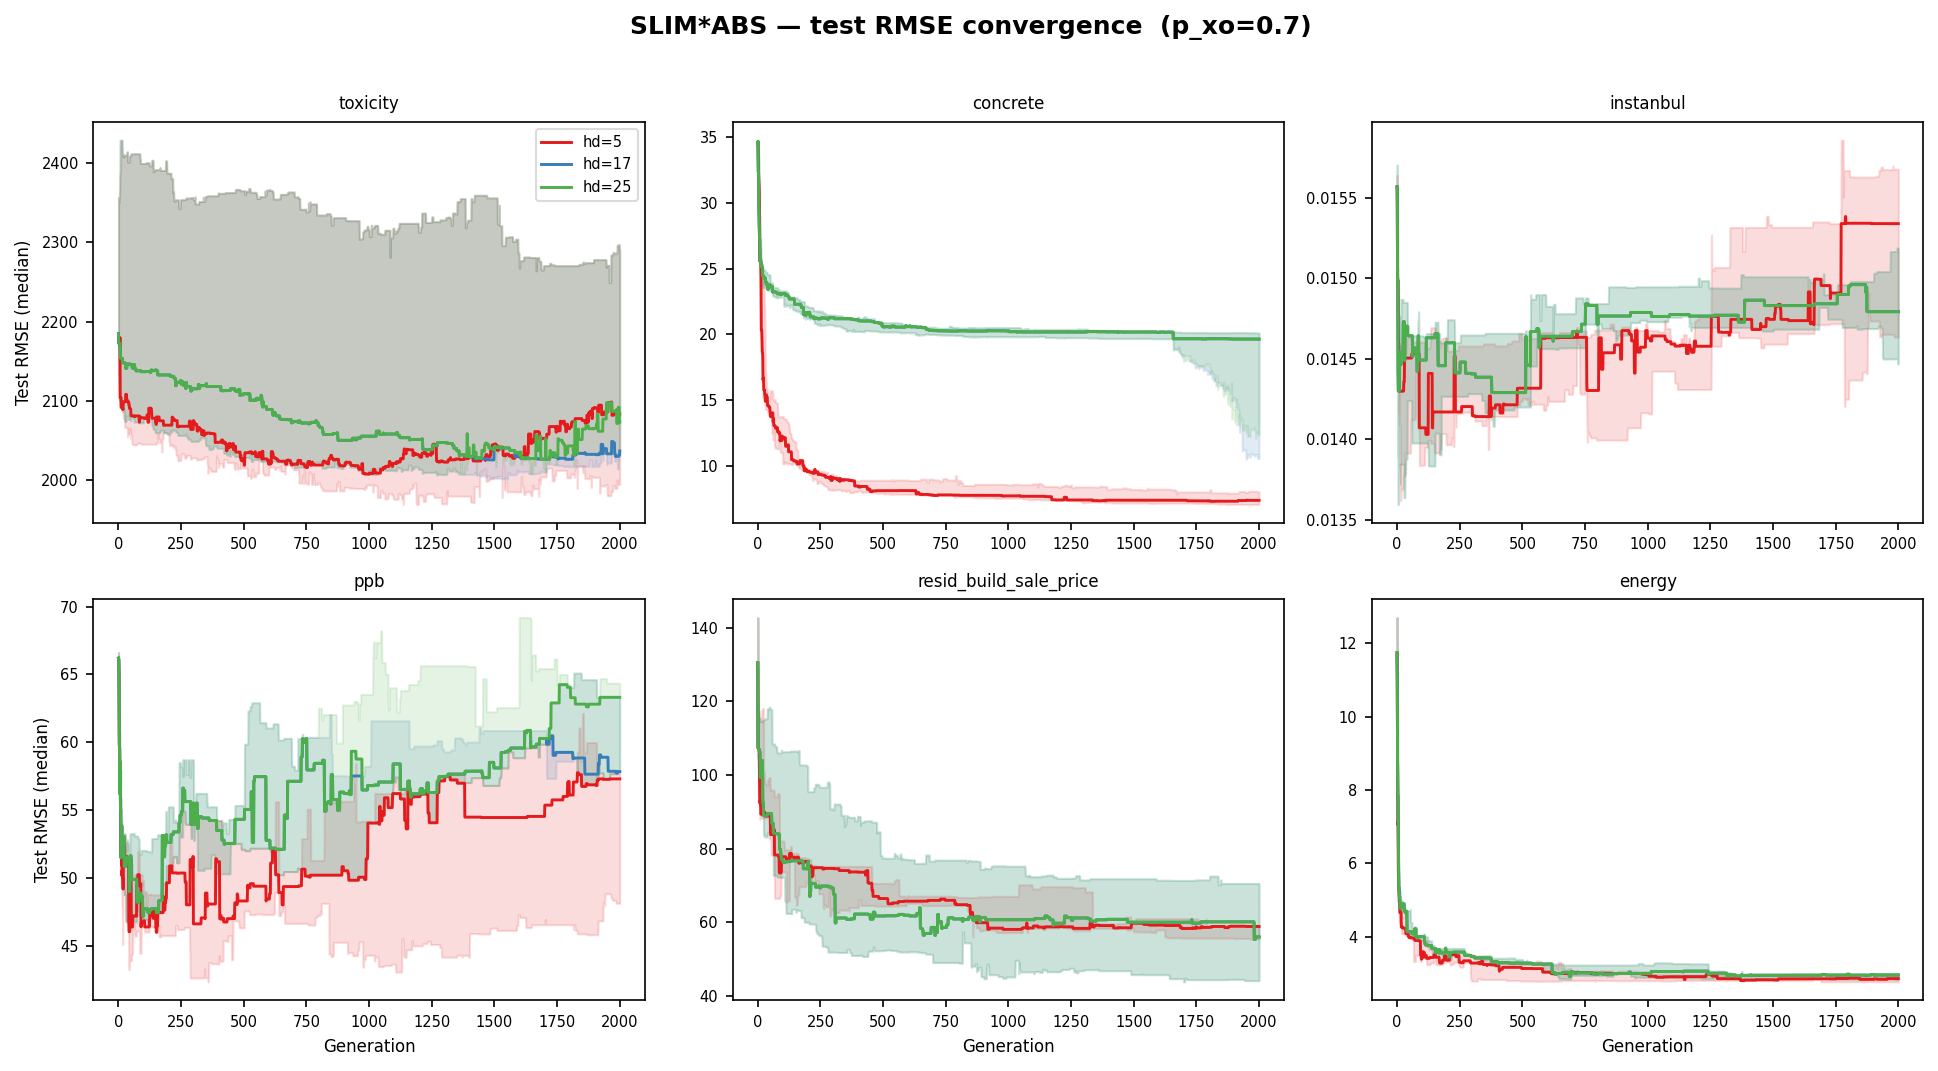
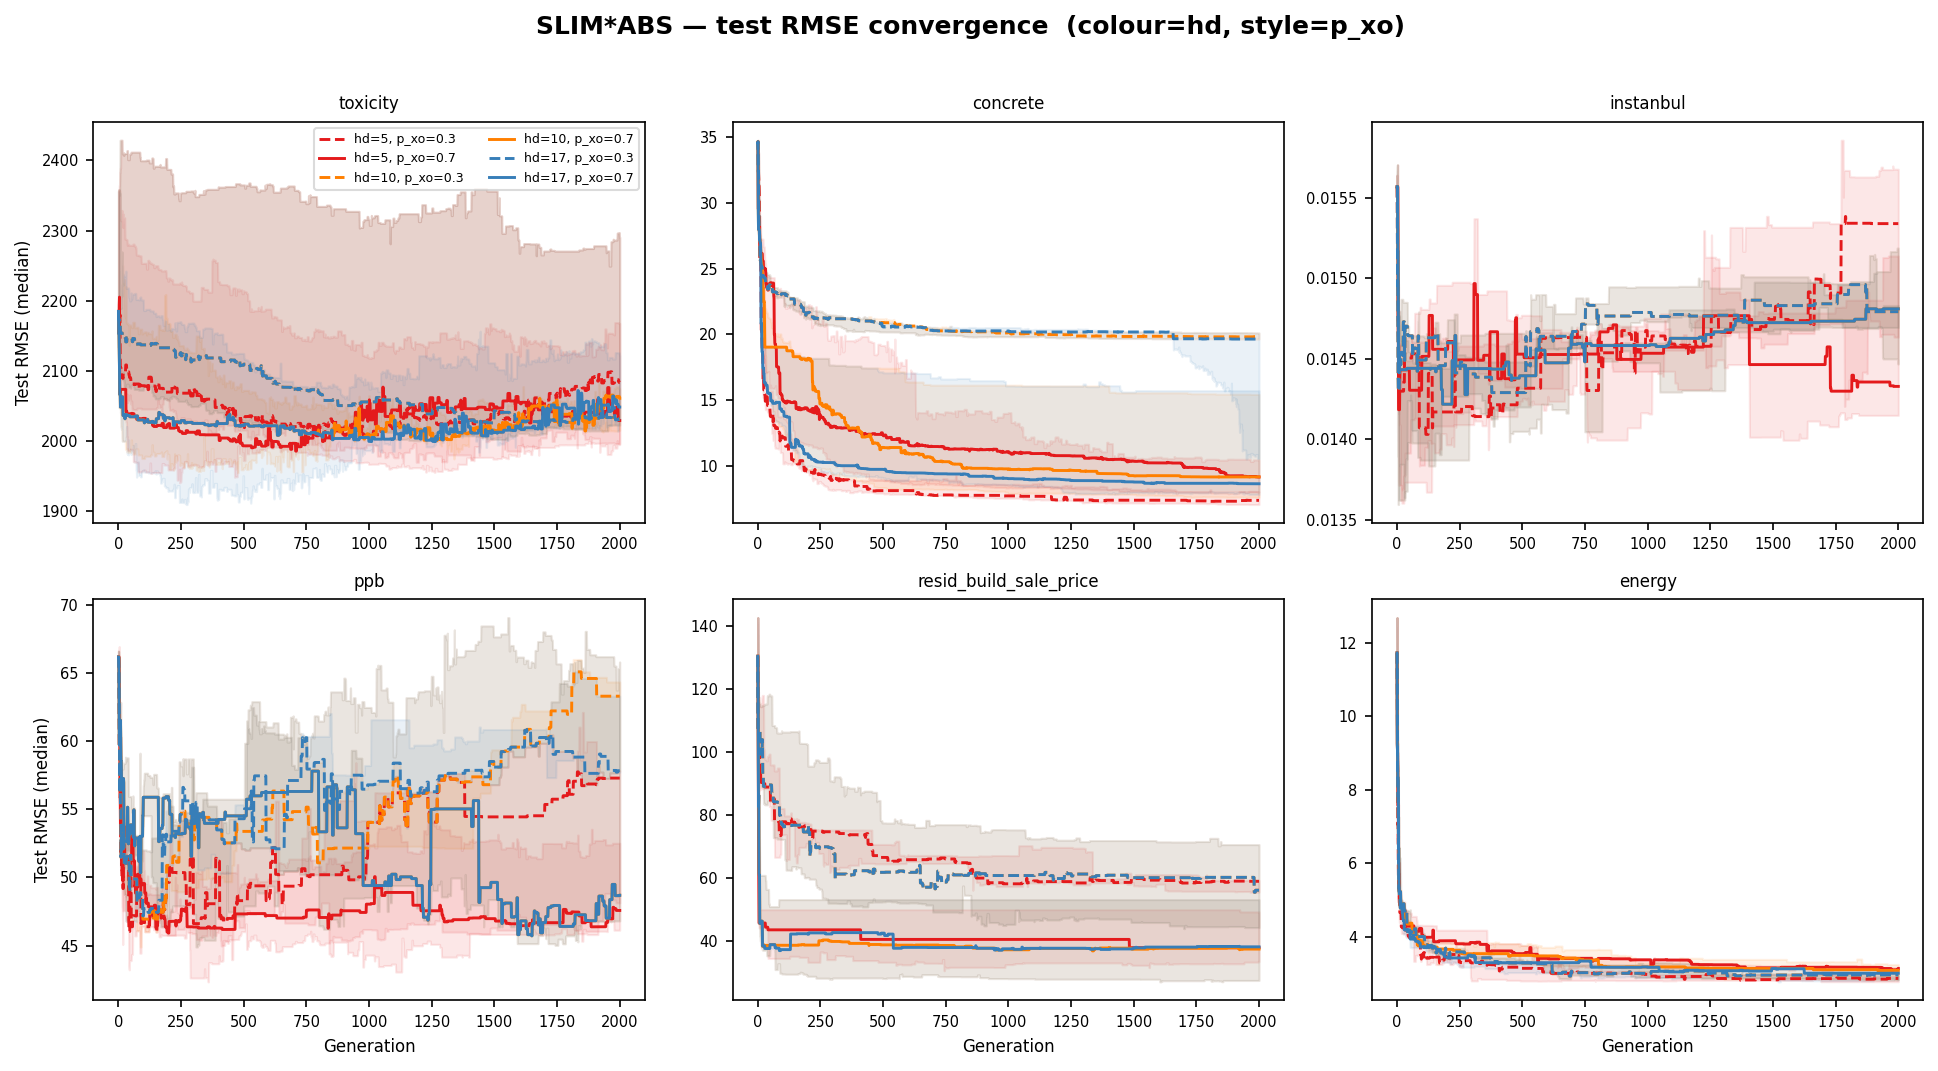
res viz

diff --git a/main/log/latex/depth_cap/depth_cap_summary_table.tex b/main/log/latex/depth_cap/depth_cap_summary_table.tex
@@ -1,87 +1,141 @@
-\begin{longtable}{lllrrrrrr}
-\caption{Depth-cap sweep (p\_xo=0.7): median (IQR) at final generation} \label{tab:depth_cap} \\
+\begin{longtable}{llllrrrrrr}
+\caption{Depth-cap sweep: median (IQR) at final generation} \label{tab:depth_cap} \\
 \toprule
-Variant & Dataset & max\_hd & \multicolumn{2}{c}{Train RMSE} & \multicolumn{2}{c}{Test RMSE} & \multicolumn{2}{c}{Model Size} \\
-\cmidrule(lr){4-5}\cmidrule(lr){6-7}\cmidrule(lr){8-9}
- & & & Med & IQR & Med & IQR & Med & IQR \\
+Variant & Dataset & p\_xo & max\_hd & \multicolumn{2}{c}{Train RMSE} & \multicolumn{2}{c}{Test RMSE} & \multicolumn{2}{c}{Model Size} \\
+\cmidrule(lr){5-6}\cmidrule(lr){7-8}\cmidrule(lr){9-10}
+ & & & & Med & IQR & Med & IQR & Med & IQR \\
 \midrule
 \endfirsthead
 \toprule
-Variant & Dataset & max\_hd & \multicolumn{2}{c}{Train RMSE} & \multicolumn{2}{c}{Test RMSE} & \multicolumn{2}{c}{Model Size} \\
- & & & Med & IQR & Med & IQR & Med & IQR \\
+Variant & Dataset & p\_xo & max\_hd & \multicolumn{2}{c}{Train RMSE} & \multicolumn{2}{c}{Test RMSE} & \multicolumn{2}{c}{Model Size} \\
+ & & & & Med & IQR & Med & IQR & Med & IQR \\
 \midrule
 \endhead
 \bottomrule
 \endfoot
-SLIM*1SIG & concrete & 5 & 9.052 & 13.234 & 9.782 & 11.453 & 731 & 302 \\
-SLIM*1SIG & concrete & 17 & 10.692 & 13.551 & 11.569 & 12.516 & 855 & 262 \\
-SLIM*1SIG & concrete & 25 & 10.692 & 11.386 & 11.569 & 10.101 & 855 & 262 \\
+SLIM*1SIG & concrete & 0.3 & 5 & 9.052 & 13.234 & 9.782 & 11.453 & 731 & 302 \\
+SLIM*1SIG & concrete & 0.3 & 10 & 10.692 & 13.359 & 11.569 & 11.808 & 855 & 62 \\
+SLIM*1SIG & concrete & 0.3 & 17 & 10.692 & 13.551 & 11.569 & 12.516 & 855 & 262 \\
+SLIM*1SIG & concrete & 0.7 & 5 & 8.139 & 0.719 & 9.169 & 1.354 & 1173 & 366 \\
+SLIM*1SIG & concrete & 0.7 & 10 & 8.916 & 0.913 & 8.561 & 0.403 & 1095 & 162 \\
+SLIM*1SIG & concrete & 0.7 & 17 & 8.916 & 1.690 & 8.561 & 0.391 & 1119 & 82 \\
 \midrule
-SLIM*1SIG & energy & 5 & 2.799 & 0.054 & 3.167 & 0.132 & 253 & 84 \\
-SLIM*1SIG & energy & 17 & 2.672 & 0.266 & 2.903 & 0.308 & 259 & 90 \\
-SLIM*1SIG & energy & 25 & 2.672 & 0.266 & 2.903 & 0.308 & 259 & 90 \\
+SLIM*1SIG & energy & 0.3 & 5 & 2.799 & 0.054 & 3.167 & 0.132 & 253 & 84 \\
+SLIM*1SIG & energy & 0.3 & 10 & 2.672 & 0.266 & 2.903 & 0.308 & 259 & 90 \\
+SLIM*1SIG & energy & 0.3 & 17 & 2.672 & 0.266 & 2.903 & 0.308 & 259 & 90 \\
+SLIM*1SIG & energy & 0.7 & 5 & 2.956 & 0.238 & 3.264 & 0.167 & 595 & 174 \\
+SLIM*1SIG & energy & 0.7 & 10 & 2.948 & 0.059 & 3.268 & 0.221 & 555 & 50 \\
+SLIM*1SIG & energy & 0.7 & 17 & 2.975 & 0.102 & 3.268 & 0.140 & 581 & 42 \\
 \midrule
-SLIM*1SIG & instanbul & 5 & 0.012 & 0.000 & 0.015 & 0.000 & 797 & 108 \\
-SLIM*1SIG & instanbul & 17 & 0.012 & 0.000 & 0.016 & 0.001 & 973 & 186 \\
-SLIM*1SIG & instanbul & 25 & 0.012 & 0.000 & 0.016 & 0.001 & 799 & 178 \\
+SLIM*1SIG & instanbul & 0.3 & 5 & 0.012 & 0.000 & 0.015 & 0.000 & 797 & 108 \\
+SLIM*1SIG & instanbul & 0.3 & 10 & 0.012 & 0.000 & 0.016 & 0.001 & 761 & 180 \\
+SLIM*1SIG & instanbul & 0.3 & 17 & 0.012 & 0.000 & 0.016 & 0.001 & 973 & 186 \\
+SLIM*1SIG & instanbul & 0.7 & 5 & 0.013 & 0.001 & 0.017 & 0.001 & 599 & 122 \\
+SLIM*1SIG & instanbul & 0.7 & 10 & 0.013 & 0.000 & 0.016 & 0.001 & 725 & 1024 \\
+SLIM*1SIG & instanbul & 0.7 & 17 & 0.013 & 0.000 & 0.016 & 0.001 & 685 & 86 \\
 \midrule
-SLIM*1SIG & ppb & 5 & 30.232 & 1.123 & 45.469 & 4.195 & 83 & 16 \\
-SLIM*1SIG & ppb & 17 & 30.607 & 3.969 & 50.613 & 7.527 & 87 & 20 \\
-SLIM*1SIG & ppb & 25 & 30.607 & 3.969 & 50.613 & 7.527 & 87 & 20 \\
+SLIM*1SIG & ppb & 0.3 & 5 & 30.232 & 1.123 & 45.469 & 4.195 & 83 & 16 \\
+SLIM*1SIG & ppb & 0.3 & 10 & 30.607 & 3.969 & 50.613 & 7.527 & 87 & 20 \\
+SLIM*1SIG & ppb & 0.3 & 17 & 30.607 & 3.969 & 50.613 & 7.527 & 87 & 20 \\
+SLIM*1SIG & ppb & 0.7 & 5 & 30.540 & 0.817 & 55.472 & 6.775 & 67 & 8 \\
+SLIM*1SIG & ppb & 0.7 & 10 & 28.683 & 1.077 & 43.334 & 2.159 & 75 & 8 \\
+SLIM*1SIG & ppb & 0.7 & 17 & 28.683 & 2.267 & 44.056 & 2.107 & 75 & 6 \\
 \midrule
-SLIM*1SIG & resid_build_sale_price & 5 & 46.620 & 3.040 & 57.431 & 8.935 & 119 & 24 \\
-SLIM*1SIG & resid_build_sale_price & 17 & 46.620 & 7.176 & 59.038 & 8.400 & 111 & 22 \\
-SLIM*1SIG & resid_build_sale_price & 25 & 46.620 & 7.176 & 59.038 & 8.400 & 111 & 22 \\
+SLIM*1SIG & resid_build_sale_price & 0.3 & 5 & 46.620 & 3.040 & 57.431 & 8.935 & 119 & 24 \\
+SLIM*1SIG & resid_build_sale_price & 0.3 & 10 & 46.620 & 7.176 & 59.038 & 8.400 & 111 & 10 \\
+SLIM*1SIG & resid_build_sale_price & 0.3 & 17 & 46.620 & 7.176 & 59.038 & 8.400 & 111 & 22 \\
+SLIM*1SIG & resid_build_sale_price & 0.7 & 5 & 35.312 & 21.691 & 46.906 & 42.250 & 193 & 34 \\
+SLIM*1SIG & resid_build_sale_price & 0.7 & 10 & 47.082 & 12.026 & 35.847 & 12.038 & 133 & 118 \\
+SLIM*1SIG & resid_build_sale_price & 0.7 & 17 & 47.082 & 8.598 & 36.772 & 12.038 & 133 & 154 \\
 \midrule
-SLIM*1SIG & toxicity & 5 & 1845.951 & 75.892 & 2006.073 & 329.454 & 257 & 156 \\
-SLIM*1SIG & toxicity & 17 & 1779.704 & 194.030 & 1996.041 & 42.963 & 247 & 212 \\
-SLIM*1SIG & toxicity & 25 & 1815.321 & 191.407 & 2037.773 & 90.291 & 231 & 204 \\
+SLIM*1SIG & toxicity & 0.3 & 5 & 1845.951 & 75.892 & 2006.073 & 329.454 & 257 & 156 \\
+SLIM*1SIG & toxicity & 0.3 & 10 & 1824.253 & 24.904 & 1994.810 & 73.284 & 231 & 236 \\
+SLIM*1SIG & toxicity & 0.3 & 17 & 1779.704 & 194.030 & 1996.041 & 42.963 & 247 & 212 \\
+SLIM*1SIG & toxicity & 0.7 & 5 & 1847.172 & 21.136 & 1994.791 & 128.489 & 297 & 122 \\
+SLIM*1SIG & toxicity & 0.7 & 10 & 1735.575 & 92.455 & 2016.338 & 199.487 & 451 & 60 \\
+SLIM*1SIG & toxicity & 0.7 & 17 & 1707.843 & 211.162 & 2044.434 & 170.254 & 565 & 586 \\
 \midrule
-SLIM*ABS & concrete & 5 & 7.143 & 0.634 & 7.389 & 0.965 & 1170 & 197 \\
-SLIM*ABS & concrete & 17 & 20.750 & 10.593 & 19.648 & 9.549 & 1405 & 549 \\
-SLIM*ABS & concrete & 25 & 20.750 & 9.037 & 19.648 & 7.710 & 1405 & 7756 \\
+SLIM*ABS & concrete & 0.3 & 5 & 7.143 & 0.634 & 7.389 & 0.965 & 1170 & 197 \\
+SLIM*ABS & concrete & 0.3 & 10 & 21.171 & 0.626 & 19.812 & 0.470 & 1283 & 179 \\
+SLIM*ABS & concrete & 0.3 & 17 & 20.750 & 10.593 & 19.648 & 9.549 & 1405 & 549 \\
+SLIM*ABS & concrete & 0.7 & 5 & 8.869 & 2.028 & 9.165 & 2.435 & 1562 & 202 \\
+SLIM*ABS & concrete & 0.7 & 10 & 8.208 & 7.217 & 9.176 & 7.826 & 1809 & 585 \\
+SLIM*ABS & concrete & 0.7 & 17 & 8.211 & 7.547 & 8.652 & 7.884 & 2512 & 4046 \\
 \midrule
-SLIM*ABS & energy & 5 & 2.701 & 0.147 & 2.867 & 0.147 & 289 & 68 \\
-SLIM*ABS & energy & 17 & 2.633 & 0.035 & 2.964 & 0.163 & 307 & 121 \\
-SLIM*ABS & energy & 25 & 2.633 & 0.035 & 2.964 & 0.163 & 307 & 121 \\
+SLIM*ABS & energy & 0.3 & 5 & 2.701 & 0.147 & 2.867 & 0.147 & 289 & 68 \\
+SLIM*ABS & energy & 0.3 & 10 & 2.633 & 0.035 & 2.964 & 0.163 & 307 & 121 \\
+SLIM*ABS & energy & 0.3 & 17 & 2.633 & 0.035 & 2.964 & 0.163 & 307 & 121 \\
+SLIM*ABS & energy & 0.7 & 5 & 2.846 & 0.148 & 3.139 & 0.073 & 518 & 56 \\
+SLIM*ABS & energy & 0.7 & 10 & 2.824 & 0.072 & 3.085 & 0.419 & 440 & 112 \\
+SLIM*ABS & energy & 0.7 & 17 & 2.746 & 0.122 & 3.008 & 0.268 & 497 & 143 \\
 \midrule
-SLIM*ABS & instanbul & 5 & 0.013 & 0.000 & 0.015 & 0.001 & 269 & 200 \\
-SLIM*ABS & instanbul & 17 & 0.013 & 0.000 & 0.015 & 0.001 & 321 & 79 \\
-SLIM*ABS & instanbul & 25 & 0.013 & 0.000 & 0.015 & 0.001 & 321 & 79 \\
+SLIM*ABS & instanbul & 0.3 & 5 & 0.013 & 0.000 & 0.015 & 0.001 & 269 & 200 \\
+SLIM*ABS & instanbul & 0.3 & 10 & 0.013 & 0.000 & 0.015 & 0.001 & 321 & 79 \\
+SLIM*ABS & instanbul & 0.3 & 17 & 0.013 & 0.000 & 0.015 & 0.001 & 321 & 79 \\
+SLIM*ABS & instanbul & 0.7 & 5 & 0.013 & 0.000 & 0.014 & 0.001 & 358 & 138 \\
+SLIM*ABS & instanbul & 0.7 & 10 & 0.013 & 0.000 & 0.015 & 0.000 & 310 & 13 \\
+SLIM*ABS & instanbul & 0.7 & 17 & 0.013 & 0.000 & 0.015 & 0.000 & 310 & 13 \\
 \midrule
-SLIM*ABS & ppb & 5 & 28.828 & 4.562 & 57.295 & 9.711 & 412 & 130 \\
-SLIM*ABS & ppb & 17 & 29.386 & 2.476 & 57.837 & 5.580 & 412 & 47 \\
-SLIM*ABS & ppb & 25 & 29.196 & 2.476 & 63.309 & 6.516 & 412 & 47 \\
+SLIM*ABS & ppb & 0.3 & 5 & 28.828 & 4.562 & 57.295 & 9.711 & 412 & 130 \\
+SLIM*ABS & ppb & 0.3 & 10 & 30.259 & 2.476 & 63.309 & 6.516 & 412 & 47 \\
+SLIM*ABS & ppb & 0.3 & 17 & 29.386 & 2.476 & 57.837 & 5.580 & 412 & 47 \\
+SLIM*ABS & ppb & 0.7 & 5 & 26.908 & 2.901 & 47.575 & 6.387 & 1040 & 503 \\
+SLIM*ABS & ppb & 0.7 & 10 & 29.713 & 4.055 & 48.692 & 19.015 & 785 & 480 \\
+SLIM*ABS & ppb & 0.7 & 17 & 29.713 & 4.055 & 48.692 & 19.015 & 785 & 480 \\
 \midrule
-SLIM*ABS & resid_build_sale_price & 5 & 45.478 & 7.395 & 58.881 & 3.774 & 232 & 118 \\
-SLIM*ABS & resid_build_sale_price & 17 & 49.559 & 6.484 & 56.046 & 26.383 & 305 & 109 \\
-SLIM*ABS & resid_build_sale_price & 25 & 49.559 & 6.484 & 56.046 & 26.383 & 305 & 109 \\
+SLIM*ABS & resid_build_sale_price & 0.3 & 5 & 45.478 & 7.395 & 58.881 & 3.774 & 232 & 118 \\
+SLIM*ABS & resid_build_sale_price & 0.3 & 10 & 49.559 & 6.484 & 56.046 & 26.383 & 305 & 109 \\
+SLIM*ABS & resid_build_sale_price & 0.3 & 17 & 49.559 & 6.484 & 56.046 & 26.383 & 305 & 109 \\
+SLIM*ABS & resid_build_sale_price & 0.7 & 5 & 45.857 & 2.321 & 37.778 & 15.826 & 108 & 287 \\
+SLIM*ABS & resid_build_sale_price & 0.7 & 10 & 39.881 & 4.667 & 37.344 & 25.719 & 279 & 124 \\
+SLIM*ABS & resid_build_sale_price & 0.7 & 17 & 41.122 & 2.856 & 38.052 & 25.719 & 337 & 137 \\
 \midrule
-SLIM*ABS & toxicity & 5 & 1934.040 & 75.115 & 2083.186 & 295.836 & 675 & 313 \\
-SLIM*ABS & toxicity & 17 & 1934.040 & 132.041 & 2036.889 & 260.068 & 860 & 285 \\
-SLIM*ABS & toxicity & 25 & 1934.040 & 113.284 & 2073.168 & 260.068 & 860 & 271 \\
+SLIM*ABS & toxicity & 0.3 & 5 & 1934.040 & 75.115 & 2083.186 & 295.836 & 675 & 313 \\
+SLIM*ABS & toxicity & 0.3 & 10 & 1934.040 & 131.384 & 2030.334 & 275.486 & 860 & 114 \\
+SLIM*ABS & toxicity & 0.3 & 17 & 1934.040 & 132.041 & 2036.889 & 260.068 & 860 & 285 \\
+SLIM*ABS & toxicity & 0.7 & 5 & 1917.746 & 160.262 & 2029.002 & 171.546 & 1440 & 628 \\
+SLIM*ABS & toxicity & 0.7 & 10 & 1724.961 & 53.193 & 2060.649 & 52.065 & 1976 & 157 \\
+SLIM*ABS & toxicity & 0.7 & 17 & 1769.418 & 4.836 & 2048.175 & 99.316 & 1994 & 358 \\
 \midrule
-SLIM+2SIG & concrete & 5 & 12.035 & 1.881 & 12.409 & 2.070 & 11297 & 242 \\
-SLIM+2SIG & concrete & 17 & 15.487 & 5.940 & 15.577 & 1.902 & 11297 & 453 \\
-SLIM+2SIG & concrete & 25 & 16.722 & 5.571 & 16.717 & 1.460 & 11297 & 824 \\
+SLIM+2SIG & concrete & 0.3 & 5 & 12.035 & 1.881 & 12.409 & 2.070 & 11297 & 242 \\
+SLIM+2SIG & concrete & 0.3 & 10 & 15.983 & 10.592 & 15.979 & 6.743 & 11297 & 568 \\
+SLIM+2SIG & concrete & 0.3 & 17 & 15.487 & 10.592 & 15.577 & 6.743 & 11297 & 453 \\
+SLIM+2SIG & concrete & 0.7 & 5 & 13.236 & 0.712 & 13.008 & 1.051 & 7488 & 419 \\
+SLIM+2SIG & concrete & 0.7 & 10 & 12.488 & 1.327 & 11.862 & 1.554 & 8005 & 810 \\
+SLIM+2SIG & concrete & 0.7 & 17 & 12.488 & 1.219 & 11.862 & 1.870 & 8125 & 26645 \\
 \midrule
-SLIM+2SIG & energy & 5 & 2.725 & 0.418 & 3.062 & 0.244 & 2914 & 410 \\
-SLIM+2SIG & energy & 17 & 2.657 & 0.143 & 2.940 & 0.182 & 2185 & 840 \\
-SLIM+2SIG & energy & 25 & 2.731 & 0.236 & 3.069 & 0.441 & 2185 & 611 \\
+SLIM+2SIG & energy & 0.3 & 5 & 2.725 & 0.418 & 3.062 & 0.244 & 2914 & 410 \\
+SLIM+2SIG & energy & 0.3 & 10 & 2.588 & 0.253 & 2.956 & 0.335 & 2553 & 667 \\
+SLIM+2SIG & energy & 0.3 & 17 & 2.657 & 0.143 & 2.940 & 0.182 & 2185 & 840 \\
+SLIM+2SIG & energy & 0.7 & 5 & 2.844 & 0.130 & 3.302 & 0.362 & 3210 & 186 \\
+SLIM+2SIG & energy & 0.7 & 10 & 2.896 & 0.118 & 3.328 & 0.102 & 2311 & 402 \\
+SLIM+2SIG & energy & 0.7 & 17 & 2.896 & 0.118 & 3.328 & 0.102 & 2311 & 402 \\
 \midrule
-SLIM+2SIG & instanbul & 5 & 0.013 & 0.000 & 0.015 & 0.002 & 771 & 306 \\
-SLIM+2SIG & instanbul & 17 & 0.013 & 0.000 & 0.015 & 0.000 & 480 & 40 \\
-SLIM+2SIG & instanbul & 25 & 0.013 & 0.000 & 0.015 & 0.000 & 480 & 40 \\
+SLIM+2SIG & instanbul & 0.3 & 5 & 0.013 & 0.000 & 0.015 & 0.002 & 771 & 306 \\
+SLIM+2SIG & instanbul & 0.3 & 10 & 0.013 & 0.000 & 0.015 & 0.000 & 480 & 40 \\
+SLIM+2SIG & instanbul & 0.3 & 17 & 0.013 & 0.000 & 0.015 & 0.000 & 480 & 40 \\
+SLIM+2SIG & instanbul & 0.7 & 5 & 0.013 & 0.000 & 0.015 & 0.001 & 1725 & 1238 \\
+SLIM+2SIG & instanbul & 0.7 & 10 & 0.013 & 0.001 & 0.015 & 0.000 & 1462 & 1046 \\
+SLIM+2SIG & instanbul & 0.7 & 17 & 0.013 & 0.000 & 0.015 & 0.001 & 977 & 789 \\
 \midrule
-SLIM+2SIG & ppb & 5 & 19.901 & 3.228 & 34.127 & 1.641 & 4960 & 1177 \\
-SLIM+2SIG & ppb & 17 & 19.901 & 3.489 & 33.056 & 3.757 & 4960 & 920 \\
-SLIM+2SIG & ppb & 25 & 19.901 & 3.489 & 33.056 & 3.757 & 4960 & 920 \\
+SLIM+2SIG & ppb & 0.3 & 5 & 19.901 & 3.228 & 34.127 & 1.641 & 4960 & 1177 \\
+SLIM+2SIG & ppb & 0.3 & 10 & 19.901 & 3.489 & 33.056 & 3.757 & 4960 & 920 \\
+SLIM+2SIG & ppb & 0.3 & 17 & 19.901 & 3.489 & 33.056 & 3.757 & 4960 & 920 \\
+SLIM+2SIG & ppb & 0.7 & 5 & 23.644 & 1.226 & 32.958 & 3.636 & 3926 & 23 \\
+SLIM+2SIG & ppb & 0.7 & 10 & 24.039 & 5.293 & 35.248 & 0.980 & 3889 & 1714 \\
+SLIM+2SIG & ppb & 0.7 & 17 & 24.039 & 7.437 & 35.793 & 1.107 & 3889 & 2329 \\
 \midrule
-SLIM+2SIG & resid_build_sale_price & 5 & 89.797 & 12.018 & 105.286 & 30.370 & 2852 & 460 \\
-SLIM+2SIG & resid_build_sale_price & 17 & 88.348 & 6.745 & 100.092 & 30.370 & 3476 & 1046 \\
-SLIM+2SIG & resid_build_sale_price & 25 & 88.348 & 6.745 & 100.092 & 30.370 & 3476 & 1046 \\
+SLIM+2SIG & resid_build_sale_price & 0.3 & 5 & 89.797 & 12.018 & 105.286 & 30.370 & 2852 & 460 \\
+SLIM+2SIG & resid_build_sale_price & 0.3 & 10 & 88.348 & 6.745 & 100.092 & 30.370 & 3476 & 1046 \\
+SLIM+2SIG & resid_build_sale_price & 0.3 & 17 & 88.348 & 6.745 & 100.092 & 30.370 & 3476 & 1046 \\
+SLIM+2SIG & resid_build_sale_price & 0.7 & 5 & 88.872 & 37.409 & 87.484 & 53.495 & 2217 & 1185 \\
+SLIM+2SIG & resid_build_sale_price & 0.7 & 10 & 54.302 & 49.002 & 59.872 & 26.928 & 2093 & 1372 \\
+SLIM+2SIG & resid_build_sale_price & 0.7 & 17 & 54.252 & 49.190 & 60.893 & 26.614 & 2047 & 923 \\
 \midrule
-SLIM+2SIG & toxicity & 5 & 2230.405 & 131.991 & 2118.817 & 172.459 & 1594 & 577 \\
-SLIM+2SIG & toxicity & 17 & 2193.815 & 138.456 & 2104.095 & 348.876 & 1503 & 289 \\
-SLIM+2SIG & toxicity & 25 & 2173.771 & 130.137 & 2104.095 & 348.876 & 1489 & 82 \\
+SLIM+2SIG & toxicity & 0.3 & 5 & 2230.405 & 131.991 & 2118.817 & 172.459 & 1594 & 577 \\
+SLIM+2SIG & toxicity & 0.3 & 10 & 2215.343 & 130.315 & 2104.095 & 348.876 & 1503 & 309 \\
+SLIM+2SIG & toxicity & 0.3 & 17 & 2193.815 & 138.456 & 2104.095 & 348.876 & 1503 & 289 \\
+SLIM+2SIG & toxicity & 0.7 & 5 & 2165.920 & 157.823 & 2104.589 & 118.593 & 2200 & 198 \\
+SLIM+2SIG & toxicity & 0.7 & 10 & 1985.284 & 147.166 & 2055.176 & 218.030 & 2601 & 589 \\
+SLIM+2SIG & toxicity & 0.7 & 17 & 2007.210 & 203.195 & 2076.562 & 123.682 & 2177 & 394 \\
 \end{longtable}
